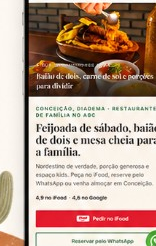
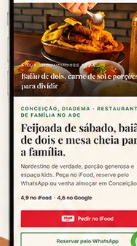
Corrige preview estranho do portfolio restaurante
Usa imagem composta limpa no card em vez de encaixar
recortes dentro de DeviceFrame aninhado, e ajusta o
crop mobile que vazava fundo da apresentação.

diff --git a/src/components/ui/RestaurantConceptShowcase.tsx b/src/components/ui/RestaurantConceptShowcase.tsx
@@ -47,18 +47,18 @@ const mobileShots = [
 function ScreenImage({
   src,
   alt,
-  className,
+  fit = "cover",
 }: {
   src: string;
   alt: string;
-  className?: string;
+  fit?: "cover" | "contain";
 }) {
   return (
     <Image
       src={src}
       alt={alt}
       fill
-      className={`object-cover object-top ${className ?? ""}`}
+      className={fit === "contain" ? "object-contain object-top" : "object-cover object-top"}
       sizes="(max-width: 768px) 100vw, 400px"
     />
   );
@@ -83,7 +83,7 @@ function GalleryShot({
       <div
         className={`relative overflow-hidden rounded-lg border border-border bg-white shadow-sm ${aspectClass}`}
       >
-        <ScreenImage src={src} alt={alt} />
+        <ScreenImage src={src} alt={alt} fit="cover" />
       </div>
       <figcaption className="mt-2 text-center text-xs text-muted">
         {label}
@@ -92,29 +92,19 @@ function GalleryShot({
   );
 }
 
-/** Miniatura do card — mesmo padrão visual dos outros conceitos */
+/** Preview do card — imagem composta limpa (sem encaixar PNG dentro de outro mockup) */
 export function RestaurantConceptCardPreview() {
   return (
-    <div className="relative mx-auto flex w-full max-w-[300px] items-end justify-center">
-      <DeviceFrame type="laptop" className="relative z-10 w-full max-w-[300px]">
-        <div className="relative aspect-[16/10] w-full bg-white">
-          <ScreenImage
-            src={`${BASE}/desktop-hero.png`}
-            alt="Demonstração conceitual — landing page para restaurante"
-          />
-        </div>
-      </DeviceFrame>
-      <DeviceFrame
-        type="phone"
-        className="absolute -right-1 bottom-3 z-20 w-[96px] sm:-right-2"
-      >
-        <div className="relative aspect-[9/16] w-full bg-white">
-          <ScreenImage
-            src={`${BASE}/mobile-hero.png`}
-            alt="Demonstração mobile — restaurante"
-          />
-        </div>
-      </DeviceFrame>
+    <div className="relative mx-auto w-full max-w-[320px]">
+      <Image
+        src={`${BASE}/card-preview.png`}
+        alt="Demonstração conceitual — landing page para restaurante em notebook e celular"
+        width={900}
+        height={560}
+        className="h-auto w-full object-contain"
+        sizes="(max-width: 768px) 90vw, 320px"
+        priority={false}
+      />
     </div>
   );
 }
@@ -127,7 +117,16 @@ export function RestaurantConceptModalGallery() {
           Versão desktop
         </p>
         <div className="space-y-4">
-          <GalleryShot {...desktopShots[0]} aspect="desktop" />
+          <div className="flex justify-center rounded-xl bg-surface px-4 py-6 sm:px-8">
+            <DeviceFrame type="laptop" className="w-full max-w-lg">
+              <div className="relative h-full min-h-[180px] w-full">
+                <ScreenImage
+                  src={desktopShots[0].src}
+                  alt={desktopShots[0].alt}
+                />
+              </div>
+            </DeviceFrame>
+          </div>
           <div className="grid gap-4 sm:grid-cols-2">
             <GalleryShot {...desktopShots[1]} aspect="desktop" />
             <GalleryShot {...desktopShots[2]} aspect="desktop" />
@@ -141,7 +140,14 @@ export function RestaurantConceptModalGallery() {
         </p>
         <div className="grid grid-cols-2 gap-4 sm:grid-cols-4">
           {mobileShots.map((shot) => (
-            <GalleryShot key={shot.src} {...shot} aspect="mobile" />
+            <div key={shot.src} className="flex flex-col items-center">
+              <DeviceFrame type="phone" className="w-full max-w-[120px]">
+                <div className="relative h-full min-h-[160px] w-full">
+                  <ScreenImage src={shot.src} alt={shot.alt} />
+                </div>
+              </DeviceFrame>
+              <p className="mt-2 text-center text-xs text-muted">{shot.label}</p>
+            </div>
           ))}
         </div>
       </div>

diff --git a/src/components/ui/LandingMockup.tsx b/src/components/ui/LandingMockup.tsx
@@ -233,7 +233,7 @@ function DeviceFrame({ type, children, className }: DeviceFrameProps) {
             <div className="h-1.5 w-1.5 rounded-full bg-yellow-400" />
             <div className="h-1.5 w-1.5 rounded-full bg-green-400" />
           </div>
-          <div className="aspect-[16/10] overflow-hidden rounded-sm bg-white">
+          <div className="relative aspect-[16/10] overflow-hidden rounded-sm bg-white">
             {children}
           </div>
         </div>
@@ -245,7 +245,7 @@ function DeviceFrame({ type, children, className }: DeviceFrameProps) {
   return (
     <div className={className}>
       <div className="rounded-[1rem] border-[2.5px] border-gray-800 bg-gray-800 p-0.5 shadow-lg">
-        <div className="aspect-[9/16] w-full overflow-hidden rounded-[0.85rem] bg-white">
+        <div className="relative aspect-[9/16] w-full overflow-hidden rounded-[0.85rem] bg-white">
           {children}
         </div>
       </div>
